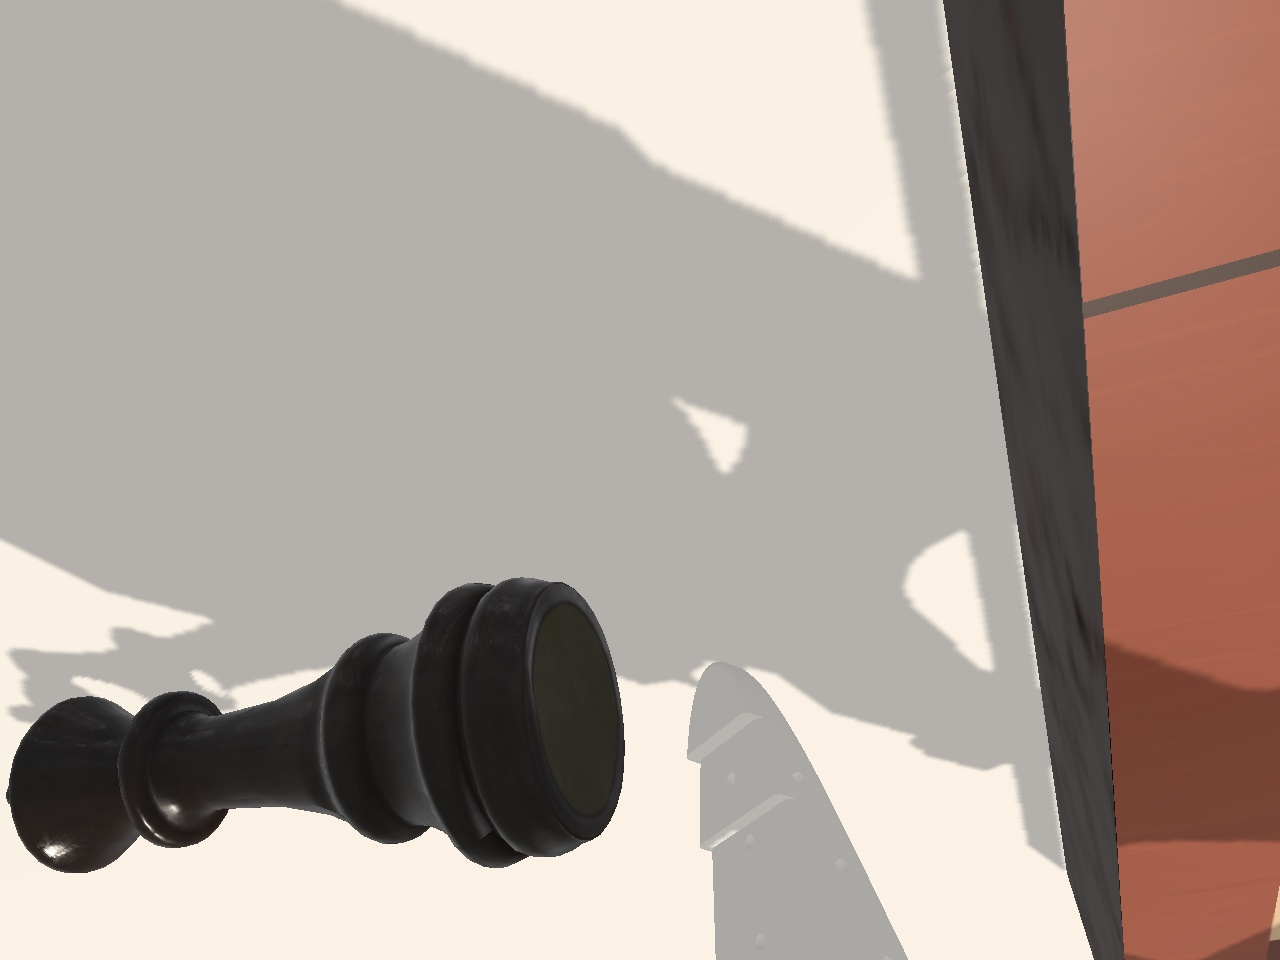
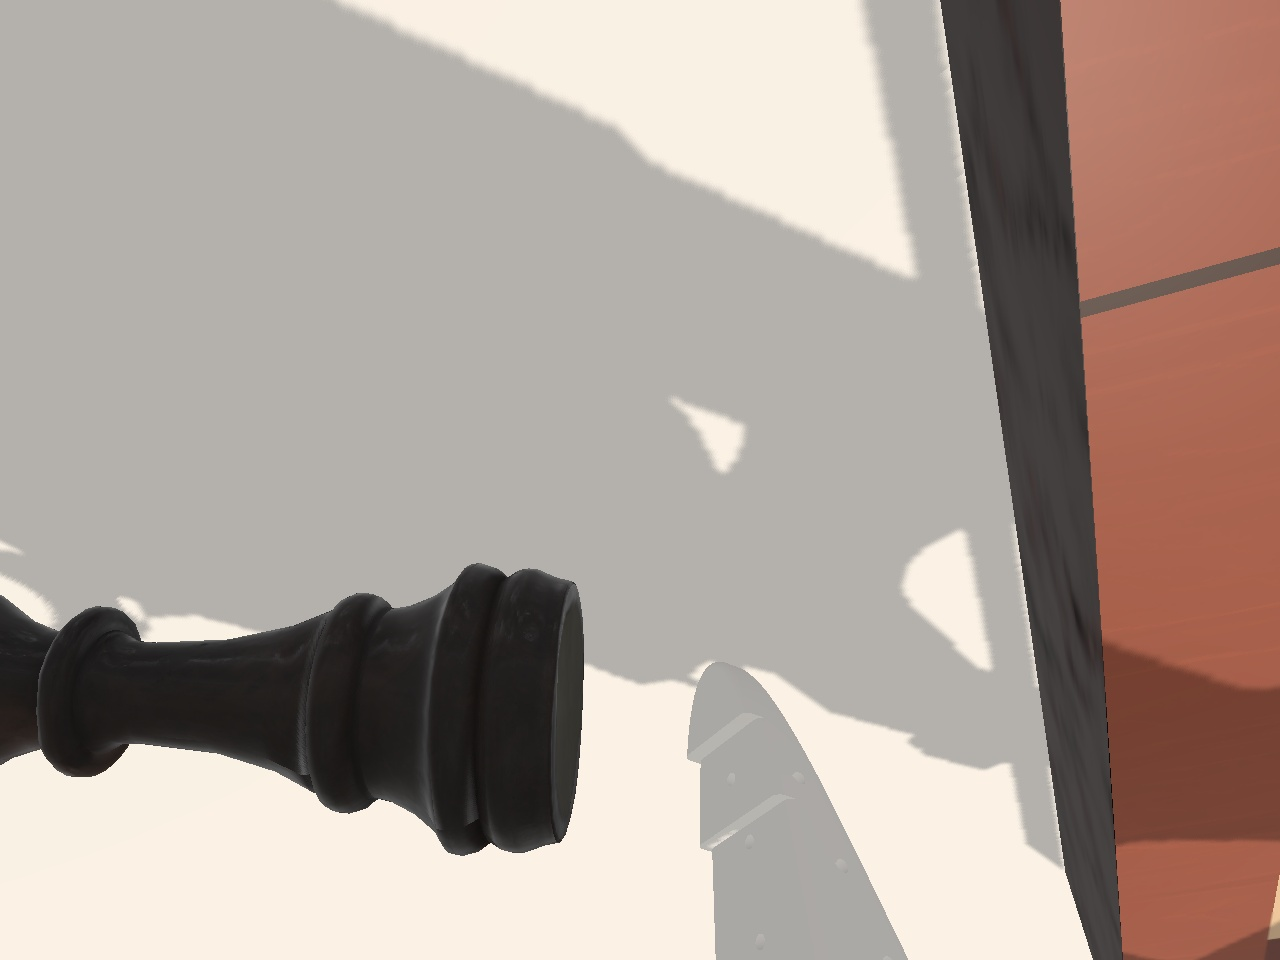
Clamp so101-real's hidden bending at ±3° and require the arm to withdraw
Unclamped, the load-dependent bending let the shoulder swing 19° unseen while
the gripper squeezed the queen against the table, which flung it upright in
attempt 2. Backlash and flex now end at ±3° beyond the calibration poses'
bend; the §5 and §2 checks are unchanged, and the launch replay squeezes the
queen out sideways instead. Success now also needs the gripper, jaws and
camera 2 cm clear of the queen for the whole second.

diff --git a/examples/so101-real/scene.ts b/examples/so101-real/scene.ts
@@ -4,9 +4,10 @@
 // peak contact force and the servo loads during it, peak loads and temperatures, and overheating
 // trips. Both are private: recorded in the run's bag, never seen by the policy. A policy must not
 // read this file.
-import type { RigidBody } from "@drawcall/physics";
+import { BoxCollider, RigidBody } from "@drawcall/physics";
 import { Evaluator, getROS2 } from "@drawcall/robotics";
-import { Quaternion, Vector3 } from "three";
+import { Line3, Quaternion, Vector3 } from "three";
+import { QUEEN_BASE, QUEEN_LENGTH } from "./pieces.ts";
 import { board, boardBody, bus, queenBody, robot, table } from "./environment.ts";
 import { ORDER } from "./robot.ts";
 import { deskHeight, ros, squareAt, tilt, type Board } from "./task.ts";
@@ -135,6 +136,41 @@ ros2.register({
   dispose() {},
 });
 
+// The arm has withdrawn when no point of the gripper's, jaws' or camera's colliders comes within
+// 2 cm of the queen. The queen counts as a capsule along its axis as wide as its base, so the
+// margin is up to 7 mm larger at its neck.
+const hands = robot.children.filter(
+  (child): child is RigidBody =>
+    child instanceof RigidBody &&
+    (child.name === "gripper_link" || child.name === "moving_jaw_so101_v1_link"),
+);
+const corners = hands.flatMap((body) =>
+  body.children
+    .filter((child): child is BoxCollider => child instanceof BoxCollider)
+    .flatMap((box) => {
+      const [sx, sy, sz] = box.size;
+      const points = [new Vector3()];
+      for (const a of [-0.5, 0.5])
+        for (const b of [-0.5, 0.5])
+          for (const c of [-0.5, 0.5]) points.push(new Vector3(a * sx, b * sy, c * sz));
+      return points.map((p) => ({ body, local: p.applyQuaternion(box.quaternion).add(box.position) }));
+    }),
+);
+const segment = new Line3();
+const nearest = new Vector3();
+const world3 = new Vector3();
+function withdrawn(): boolean {
+  const axis = new Vector3(0, 1, 0).applyQuaternion(queenBody.quaternion);
+  segment.start.copy(queenBody.position);
+  segment.end.copy(queenBody.position).addScaledVector(axis, QUEEN_LENGTH);
+  for (const body of hands) body.updateWorldMatrix(true, false);
+  return corners.every(({ body, local }) => {
+    world3.copy(local).applyMatrix4(body.matrixWorld);
+    segment.closestPointToPoint(world3, true, nearest);
+    return nearest.distanceTo(world3) - QUEEN_BASE / 2 >= 0.02;
+  });
+}
+
 /** The board where it is now: squares are judged on the board, not the table. */
 function current(): Board {
   const [x, y] = ros(boardBody.position);
@@ -168,12 +204,14 @@ new Evaluator({
     boardMoved: () => boardShift > 0.015,
   },
   success: {
-    // Upright on d8, centred within 9 mm, standing on the board top, let go of and still a
-    // second later. Rest is judged by pose: contact solvers keep bodies trembling slightly.
+    // Upright on d8, centred within 9 mm, standing on the board top, let go of, the arm withdrawn
+    // 2 cm, and all of that for a second. Rest is judged by pose: contact solvers keep bodies
+    // trembling slightly.
     queenOnD8: ({ elapsed }) => {
       const [x, y] = ros(queenBody.position);
       const placed =
         holding.size === 0 &&
+        withdrawn() &&
         squareAt(current(), x, y, 0.2 * board.s) === "d8" &&
         tilt(queenBody.quaternion) < Math.PI / 18 &&
         Math.abs(queenBody.position.y - boardBody.position.y) < 0.004;

diff --git a/examples/so101-real/calibration.ts b/examples/so101-real/calibration.ts
@@ -47,22 +47,25 @@ const FITTED = [0, 4.4, -10.8, 5.2, ROLL_ERROR];
 const BENDING = [0, 8, 8, 0, 0];
 /** The link torques, N·m, in the calibration poses: there the fitted offsets hold. */
 const REFERENCE = [0, -0.54, -0.42, 0, 0];
-/** Zero errors with the links unloaded: true = reading + offset − bending·torque. */
-const OFFSET = FITTED.map((f, i) => f + BENDING[i]! * REFERENCE[i]!);
+/** Backlash and flex end somewhere: the bend away from the calibration poses' stays within ±3°. */
+const LIMIT = 3;
+/** Degrees the link bends beyond the calibration poses' bend, against the reading's direction. */
+const bend = (torques: readonly number[], i: number) =>
+  Math.max(-LIMIT, Math.min(LIMIT, BENDING[i]! * (torques[i]! - REFERENCE[i]!)));
 
 export const calibration: Calibration = {
   angles(readings, torques) {
     return readings.map((r, i) =>
       i === 5
         ? GRIPPER_CLOSED + (r / 100) * GRIPPER_TRAVEL
-        : (r + OFFSET[i]! - BENDING[i]! * torques[i]!) * deg,
+        : (r + FITTED[i]! - bend(torques, i)) * deg,
     );
   },
   readings(angles, torques) {
     return angles.map((a, i) =>
       i === 5
         ? ((a - GRIPPER_CLOSED) / GRIPPER_TRAVEL) * 100
-        : a / deg - OFFSET[i]! + BENDING[i]! * torques[i]!,
+        : a / deg - FITTED[i]! + bend(torques, i),
     );
   },
 };

diff --git a/examples/so101-real/evidence/launch.py b/examples/so101-real/evidence/launch.py
@@ -1,0 +1,25 @@
+"""Builder check of audit 2's launch: attempt 2's goals at t = 208 s and its gripper closing
+sequence, with the queen lying where it lay then (temporary scene edit). Logs the shoulder's
+reading against its true angle and the queen's height."""
+import json
+import math
+import sys
+sys.path.insert(0, "evidence")
+from drive import Driver
+
+d = Driver()
+r = d.robot
+G = dict(shoulder_pan=-46.0, shoulder_lift=22.0, elbow_flex=1.9, wrist_flex=51.2, wrist_roll=103.0, gripper=20.0)
+d.glide(seconds=3, **{**G, "shoulder_lift": 0.0})
+d.glide(seconds=3, **G)
+r.wait(2)
+rows = []
+for g in list(range(18, -1, -2)) + [0] * 10:
+    d.goal["gripper"] = float(g)
+    r.goal(**d.goal)
+    r.wait(0.2)
+    q = d.truth.q
+    rows.append((round(r.time, 1), g, round(r.joints["shoulder_lift"], 1), round(math.degrees(q["shoulder_lift"]) - 4.4, 1),
+                 round(r.joints["elbow_flex"], 1), round(math.degrees(q["elbow_flex"]) + 10.8, 1), int(r.loads["gripper"])))
+d.log("RESULT " + json.dumps({"name": "launch", "cols": "t, gripper goal, lift reading, true lift - 4.4, elbow reading, true elbow + 10.8, gripper load", "rows": rows}))
+d.report("launch-end")

diff --git a/examples/so101-real/FIDELITY.md b/examples/so101-real/FIDELITY.md
@@ -19,7 +19,9 @@ All runs use seed 0, the measured scene. Status: ✅ reproduced, ◐ partly, ✗
   in the air bends it a little more than there. Resting it on the table unbends it: the link sits
   higher than its readings suggest, and pressing harder moves the readings without moving the
   link. Friction does not bend the link, so a 3° goal step at rest changes the load but not the
-  reading (§2). The +65° roll offset is invisible to a roll-0 camera calibration (LeRobot's roll
+  reading (§2). The bend beyond the calibration poses' is clamped to ±3° per joint: real
+  backlash and PLA flex end within a degree or two. Unclamped, squeezing the queen against the
+  table swung the shoulder 19° unseen and flung the queen up (audit 2). The +65° roll offset is invisible to a roll-0 camera calibration (LeRobot's roll
   zero is the middle of a full turn, so arbitrary). It puts the jaws where the real photos show
   them.
 - **Servos** (`servo.ts`): P-only, torque = K(goal − present) capped at stall (2.94 N·m; gripper
@@ -62,8 +64,8 @@ P=16. *Reached*: goals nudged until the readings match, like the real sag correc
 
 | Event | Real | Sim | Status |
 | --- | --- | --- | --- |
-| B (−46.5, 53.3, −49.0, 83.2, −64.7) | fixed jaw on table at these readings; model −0.3 cm | reached: jaw on table (0.04 cm) at readings (53.4, −49.3); plain (P=16 sag): stops at lift 51.0, elbow −46.3, jaw 2.8 cm up | ✅ |
-| C (−48.7, 48.8, −44.7, 83.0, −71.7) | on table again; model +0.6 | reached: 0.54 cm at readings (48.8, −44.8); plain: on the table at (50.1, −39.7) | ✅ |
+| B (−46.5, 53.3, −49.0, 83.2, −64.7) | fixed jaw on table at these readings; model −0.3 cm | reached: jaw on table (0.04 cm) at readings (53.3, −49.0); plain (P=16 sag): stops at lift 51.0, elbow −46.3, jaw 2.8 cm up | ✅ |
+| C (−48.7, 48.8, −44.7, 83.0, −71.7) | on table again; model +0.6 | reached: 0.56 cm at readings (48.8, −44.9); plain: on the table at (50.1, −39.7) | ✅ |
 | D (−48.7, 34.8, −36.0, 83.2, −71.7) after "up 4 cm" from C | ≈0.5 cm above the table (by eye); model +4.5; the commanded 3.9 cm lift was really 0.5–1 cm | plain from C (the real sequence): readings stop at (42.1, −36.2) under sag and friction, jaw **1.4 cm** above the table; at D's readings exactly (reached): **4.45 cm** | ◐ the lift from C comes out as small as on the real arm, but D's readings themselves leave the jaw 4 cm higher than observed |
 | Descent at (−44.8, 37.5, −31.4, 82.5, −62.5) | jaw resting on the lying queen's base (≈2.9 cm) | reached: jaw 2.26 cm above the table at (37.4, −31.5); the measured queen pose puts its base beside the jaw, not under it | ◐ height right, contact not |
 | Early test (0, −30.7, 93.4, 0, 0) | gripper pressed into table | elbow goal clamped to the calibrated 86.8°; tip 3.5 cm above table | ✗ (a reading beyond the calibrated range; unclear on hardware) |
@@ -106,6 +108,22 @@ the shoulder settled coming up from below, as the real holding load of 320–336
 Colour cast; load noise and the exact hysteresis shape; the real v47 gripper and camera mount
 geometry (CAD gripper used, camera board as a 25×24×12 mm box); queen mass beyond "tens of grams".
 
+## Audit 2's launch, with the clamp
+
+`launch.py`, `launch.jsonl`: attempt 2's arm goals at t = 208 s and its gripper closing sequence
+(18 → 0), with the queen lying where it lay then (a temporary scene edit). The shoulder's reading
+runs at most 3.0° ahead of its true angle (lift 23.6 vs 20.6) while the gripper pushes at load 381
+and 16 N on the queen. The queen is squeezed out sideways along the table (z unchanged, tilt
+94.6°) instead of being flung up.
+
+## Evaluation: the arm must withdraw
+
+Success needs the queen upright on d8 (9 mm, 10°, on the board top), at rest, untouched, and no
+corner or centre of a gripper, jaw or camera collider within 2 cm of the queen. The queen counts
+as a capsule as wide as its base, so the margin is up to 7 mm more at its neck. All of this must
+hold for a full second; the episode goes on until it does. Checked with a temporary edit: a jaw
+hovering ≈2 cm over the crown kept success off, which came 1 s after the arm had pulled away.
+
 ## Open: D against B, C and the calibration
 
 D's 4 cm error was observed in free air, holding the arm's weight. The calibration poses are also
@@ -125,4 +143,5 @@ arm hangs free far out (commit bb1e1c2, reverted). It improved the near-table ph
 75 to 70 px rms but made the real C → "up 4 cm" sequence stay on the table (real: rose 0.5–1 cm)
 and moved Q. Not worth a mechanism. Final state: compliance only; D's absolute height remains the
 known residual (sim ≈4.5 cm vs real ≈0.5 cm at D's exact readings; the real sequence from C is
-reproduced at 1.4 cm vs 0.5–1 cm).
+reproduced at 1.4 cm vs 0.5–1 cm). Clamping the bend at ±3° changed none of these (B 0.04, C 0.56,
+D 4.45, D from C 1.4, Q 2.26 cm; §2 sag, 3° step and approach loads identical).

diff --git a/examples/so101-real/SOLVER_BRIEF.md b/examples/so101-real/SOLVER_BRIEF.md
@@ -8,7 +8,8 @@ In front of the arm is a folding wooden chessboard; **rank 8 is the rank nearest
 a-file is on the robot's right**. A dark wooden chess queen lies on its side somewhere on the table
 near the board.
 
-**Goal:** the queen stands upright on d8, near the square's centre, released, and stays there.
+**Goal:** the queen stands upright on d8, near the square's centre, released, the arm withdrawn,
+and it stays there. The episode succeeds once all of that has held for a second.
 Knocking the board off its place or the queen off the table fails the episode. The episode ends
 after 30 simulated minutes.
 
